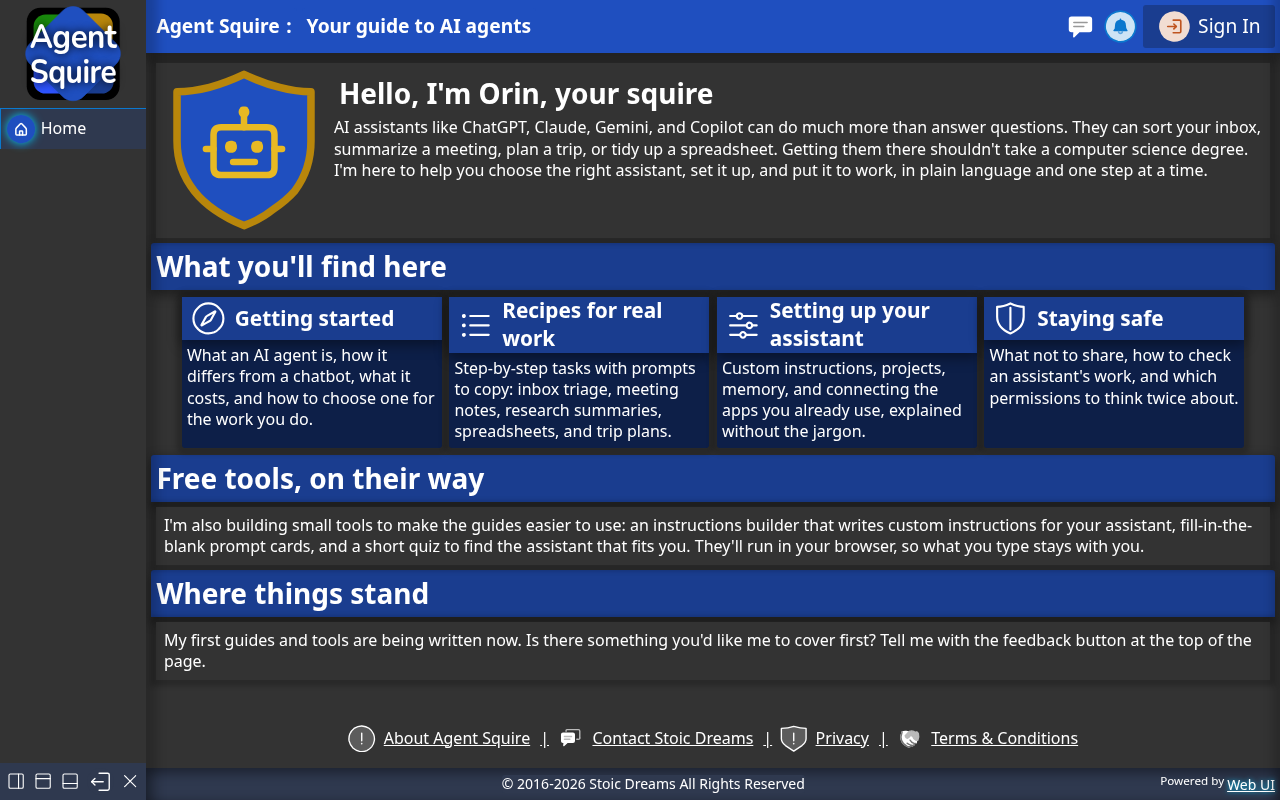
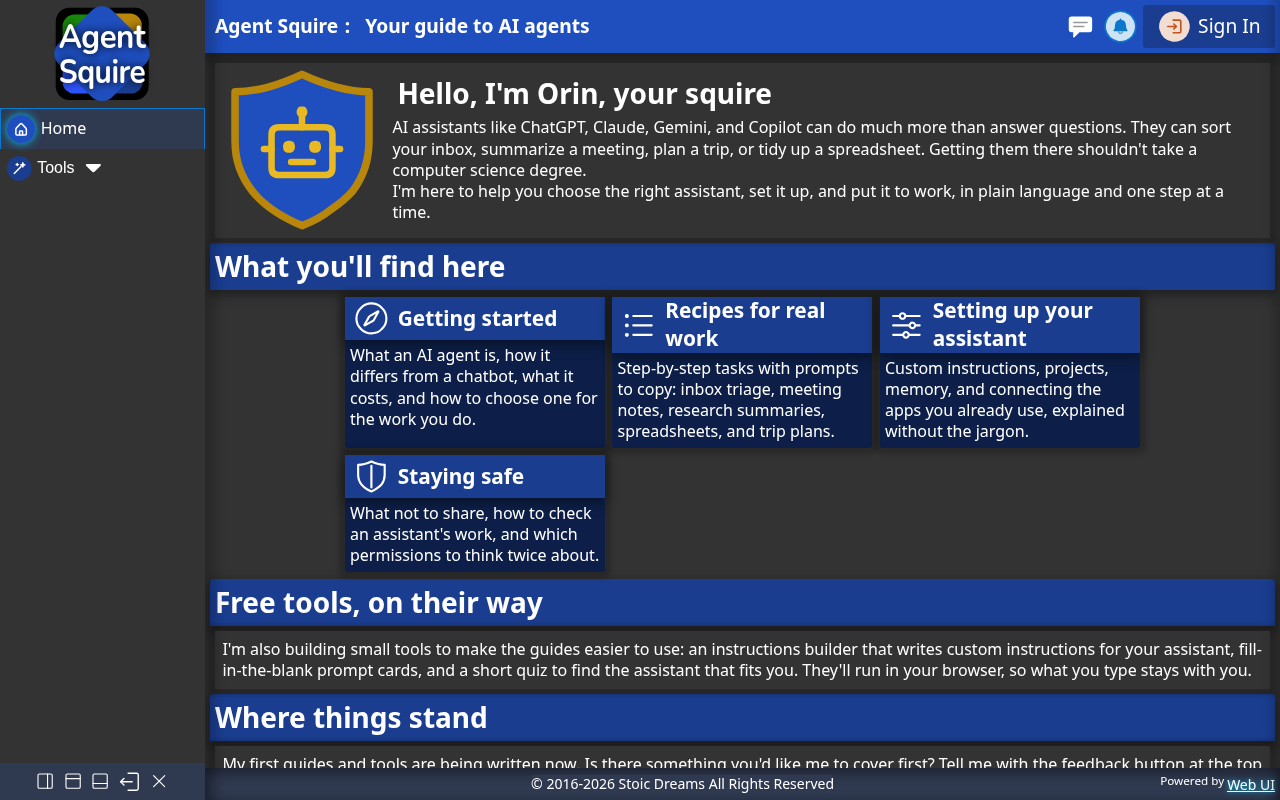
Feature: Instructions Builder, the first Agent Squire tool, with its guide and a Tools menu

diff --git a/webapp/wc/instructions-builder.js b/webapp/wc/instructions-builder.js
@@ -1,0 +1,192 @@
+/*!
+ * Agent Squire Instructions Builder
+ * Asks a few plain questions and writes custom instructions to paste into ChatGPT, Claude, Gemini, or Copilot.
+ * Everything happens in the browser. Nothing typed here is sent anywhere.
+ * Authored by Erik Gassler - Stoic Dreams
+ * Copyright © 2026 Stoic Dreams - https://www.stoicdreams.com
+ * Licensed under the MIT license - https://github.com/StoicDreams/MyFiCDN/blob/main/LICENSE
+ */
+"use strict"
+{
+    const USES = [
+        ['email', 'writing and replying to email'],
+        ['writing', 'drafting and editing documents'],
+        ['research', 'researching and summarizing'],
+        ['planning', 'planning projects, trips, and events'],
+        ['numbers', 'spreadsheets and numbers'],
+        ['learning', 'learning new things'],
+        ['everyday', 'everyday questions'],
+    ];
+
+    const TONES = {
+        friendly: 'Be warm and friendly, like a helpful colleague.',
+        professional: 'Keep a professional, polished tone.',
+        direct: 'Be direct and get straight to the point, without filler or flattery.',
+    };
+
+    const LENGTHS = {
+        short: 'Keep answers short. Give the answer first, and only add detail if I ask.',
+        balanced: 'Give enough detail to be useful, but keep answers focused.',
+        thorough: 'Be thorough. Explain your reasoning and include the details.',
+    };
+
+    const HABITS = [
+        ['plain', 'Use plain language, and explain any technical term the first time you use it.'],
+        ['steps', 'When there are steps to follow, give them as a numbered list.'],
+        ['ask', 'If my request is unclear, ask me a question before answering.'],
+        ['unsure', 'If you are not sure about something, say so rather than guessing.'],
+        ['sources', 'When you state facts, tell me where they come from so I can check them.'],
+        ['options', 'When there is a choice to make, give me a few options with their pros and cons.'],
+    ];
+
+    /** Where each assistant keeps its instructions. Menu names change, so this was checked in November 2026. */
+    const WHERE = {
+        chatgpt: 'In ChatGPT, open your profile menu, choose Settings, then Personalization, and paste this into Custom instructions. You may need to turn on customization first.',
+        claude: 'In Claude, open Settings and find the box that asks what personal preferences Claude should consider in responses. Paste this there and save.',
+        gemini: 'In Gemini, open Settings and help, then Personal Intelligence (it may say Personal context), and add this under Instructions for Gemini.',
+        copilot: 'In Microsoft Copilot, open Settings, then Personalization, and paste this into Custom instructions. A work account may have this turned off by your organization.',
+    };
+
+    const clean = value => `${value || ''}`.trim().replace(/\s+/g, ' ');
+    const sentence = text => /[.!?]$/.test(text) ? text : `${text}.`;
+
+    /** Builds the instructions from the answers. */
+    function buildInstructions(answers) {
+        const about = [];
+        const name = clean(answers.name);
+        const role = clean(answers.role);
+        if (name) about.push(`Please call me ${name}.`);
+        if (role) about.push(sentence(`I work as ${role}`));
+        const uses = USES.filter(([key]) => answers.uses?.includes(key)).map(([, text]) => text);
+        if (uses.length === 1) about.push(`I mostly use you for ${uses[0]}.`);
+        if (uses.length > 1) about.push(`I mostly use you for ${uses.slice(0, -1).join(', ')}, and ${uses[uses.length - 1]}.`);
+        const context = clean(answers.context);
+        if (context) about.push(sentence(context));
+
+        const respond = [];
+        if (TONES[answers.tone]) respond.push(TONES[answers.tone]);
+        if (LENGTHS[answers.length]) respond.push(LENGTHS[answers.length]);
+        HABITS.filter(([key]) => answers.habits?.includes(key)).forEach(([, text]) => respond.push(text));
+        const avoid = clean(answers.avoid);
+        if (avoid) respond.push(sentence(`Please avoid ${avoid.replace(/^(please )?avoid /i, '')}`));
+
+        const parts = [];
+        if (about.length) parts.push(`About me:\n${about.map(line => `- ${line}`).join('\n')}`);
+        if (respond.length) parts.push(`How to respond:\n${respond.map(line => `- ${line}`).join('\n')}`);
+        return parts.join('\n\n');
+    }
+
+    webui.define('app-instructions-builder', {
+        preload: 'flex input-text input-message switch code',
+        connected() {
+            this.render();
+        },
+        async render() {
+            const t = this;
+            const wrap = webui.create('webui-flex', { column: true, gap: 'var(--padding)' });
+
+            const name = webui.create('webui-input-text', { label: 'What should it call you?', placeholder: 'Your first name, or leave blank', maxlength: 60 });
+            const role = webui.create('webui-input-text', { label: 'What do you do?', placeholder: 'For example: a teacher, a small business owner, retired', maxlength: 120 });
+
+            const usesBox = t.checkboxes('What do you mostly use it for?', 'uses', USES.map(([key, text]) => [key, text.charAt(0).toUpperCase() + text.slice(1)]));
+            const context = webui.create('webui-input-message', { label: 'Anything else it should know about you?', placeholder: 'For example: I live in Canada, so use metric units and Canadian spelling' });
+
+            const tone = webui.create('webui-switch', { label: 'Tone' });
+            tone.setOptions(JSON.stringify([
+                { value: 'friendly', label: 'Friendly' },
+                { value: 'professional', label: 'Professional' },
+                { value: 'direct', label: 'Direct' },
+            ]));
+            const length = webui.create('webui-switch', { label: 'Answer length' });
+            length.setOptions(JSON.stringify([
+                { value: 'short', label: 'Short' },
+                { value: 'balanced', label: 'Balanced' },
+                { value: 'thorough', label: 'Thorough' },
+            ]));
+            length.setAttribute('value', 'balanced');
+
+            const habitsBox = t.checkboxes('Good habits to ask for', 'habits', HABITS.map(([key, text]) => [key, text]));
+            const avoid = webui.create('webui-input-text', { label: 'Anything it should avoid?', placeholder: 'For example: emojis, long introductions, jargon', maxlength: 200 });
+
+            const assistant = webui.create('webui-switch', { label: 'Your assistant' });
+            assistant.setOptions(JSON.stringify([
+                { value: 'chatgpt', label: 'ChatGPT' },
+                { value: 'claude', label: 'Claude' },
+                { value: 'gemini', label: 'Gemini' },
+                { value: 'copilot', label: 'Copilot' },
+            ]));
+
+            const output = webui.create('webui-code', { language: 'text', label: 'Your custom instructions', class: 'instructions-output' });
+            const count = webui.create('p', { class: 'instructions-count', 'aria-live': 'polite' });
+            const where = webui.create('p', { class: 'instructions-where' });
+
+            const field = (label, control) => {
+                const row = webui.create('webui-flex', { column: true, gap: '0.25rem' });
+                row.append(webui.create('strong', { text: label }), control);
+                return row;
+            };
+
+            wrap.append(
+                webui.create('h3', { text: 'About you' }),
+                name, role, usesBox, context,
+                webui.create('h3', { text: 'How it should answer' }),
+                field('Tone', tone), field('Answer length', length), habitsBox, avoid,
+                webui.create('h3', { text: 'Your instructions' }),
+                field('Your assistant', assistant), where, output, count,
+            );
+            t.replaceChildren(wrap);
+
+            t._fields = { name, role, context, tone, length, avoid, assistant, usesBox, habitsBox };
+            t._output = output;
+            t._count = count;
+            t._where = where;
+
+            await Promise.all(['webui-input-text', 'webui-input-message', 'webui-switch', 'webui-code'].map(tag => customElements.whenDefined(tag)));
+            wrap.addEventListener('input', () => t.update());
+            wrap.addEventListener('change', () => t.update());
+            t.update();
+        },
+        /** A labelled group of checkboxes. Labels are fixed text from this file, never typed text. */
+        checkboxes(legend, name, items) {
+            const set = webui.create('fieldset', { class: 'instructions-choices', 'data-group': name });
+            const list = webui.create('webui-flex', { column: true, gap: '0.25rem' });
+            items.forEach(([value, text]) => {
+                const label = webui.create('label');
+                const box = webui.create('input', { type: 'checkbox', name, value });
+                label.append(box, document.createTextNode(` ${text}`));
+                list.append(label);
+            });
+            set.append(webui.create('legend', { text: legend }), list);
+            return set;
+        },
+        /** The current answers, read from the form. */
+        answers() {
+            const f = this._fields;
+            const checked = set => [...set.querySelectorAll('input:checked')].map(box => box.value);
+            return {
+                name: f.name.value,
+                role: f.role.value,
+                uses: checked(f.usesBox),
+                context: f.context.value,
+                tone: f.tone.value || 'friendly',
+                length: f.length.value || 'balanced',
+                habits: checked(f.habitsBox),
+                avoid: f.avoid.value,
+            };
+        },
+        update() {
+            const t = this;
+            if (!t._fields) return;
+            const text = buildInstructions(t.answers());
+            if (text !== t._last) {
+                t._last = text;
+                t._output.setValue(text);
+                t._count.innerText = text
+                    ? `${text.length.toLocaleString()} characters. If your assistant says this is too long, remove the lines that matter least to you.`
+                    : 'Answer any of the questions above, and your instructions appear here.';
+            }
+            const where = WHERE[t._fields.assistant.value] || WHERE.chatgpt;
+            if (t._where.innerText !== where) t._where.innerText = where;
+        },
+    });
+}

diff --git a/webapp/wc/instructions-builder.min.js b/webapp/wc/instructions-builder.min.js
@@ -1,0 +1,14 @@
+"use strict";/*!
+ * Agent Squire Instructions Builder
+ * Asks a few plain questions and writes custom instructions to paste into ChatGPT, Claude, Gemini, or Copilot.
+ * Everything happens in the browser. Nothing typed here is sent anywhere.
+ * Authored by Erik Gassler - Stoic Dreams
+ * Copyright © 2026 Stoic Dreams - https://www.stoicdreams.com
+ * Licensed under the MIT license - https://github.com/StoicDreams/MyFiCDN/blob/main/LICENSE
+ */{let $=function(e){const t=[],a=d(e.name),i=d(e.role);a&&t.push(`Please call me ${a}.`),i&&t.push(p(`I work as ${i}`));const s=m.filter(([n])=>e.uses?.includes(n)).map(([,n])=>n);s.length===1&&t.push(`I mostly use you for ${s[0]}.`),s.length>1&&t.push(`I mostly use you for ${s.slice(0,-1).join(", ")}, and ${s[s.length-1]}.`);const u=d(e.context);u&&t.push(p(u));const o=[];f[e.tone]&&o.push(f[e.tone]),w[e.length]&&o.push(w[e.length]),y.filter(([n])=>e.habits?.includes(n)).forEach(([,n])=>o.push(n));const l=d(e.avoid);l&&o.push(p(`Please avoid ${l.replace(/^(please )?avoid /i,"")}`));const r=[];return t.length&&r.push(`About me:
+${t.map(n=>`- ${n}`).join(`
+`)}`),o.length&&r.push(`How to respond:
+${o.map(n=>`- ${n}`).join(`
+`)}`),r.join(`
+
+`)};const m=[["email","writing and replying to email"],["writing","drafting and editing documents"],["research","researching and summarizing"],["planning","planning projects, trips, and events"],["numbers","spreadsheets and numbers"],["learning","learning new things"],["everyday","everyday questions"]],f={friendly:"Be warm and friendly, like a helpful colleague.",professional:"Keep a professional, polished tone.",direct:"Be direct and get straight to the point, without filler or flattery."},w={short:"Keep answers short. Give the answer first, and only add detail if I ask.",balanced:"Give enough detail to be useful, but keep answers focused.",thorough:"Be thorough. Explain your reasoning and include the details."},y=[["plain","Use plain language, and explain any technical term the first time you use it."],["steps","When there are steps to follow, give them as a numbered list."],["ask","If my request is unclear, ask me a question before answering."],["unsure","If you are not sure about something, say so rather than guessing."],["sources","When you state facts, tell me where they come from so I can check them."],["options","When there is a choice to make, give me a few options with their pros and cons."]],v={chatgpt:"In ChatGPT, open your profile menu, choose Settings, then Personalization, and paste this into Custom instructions. You may need to turn on customization first.",claude:"In Claude, open Settings and find the box that asks what personal preferences Claude should consider in responses. Paste this there and save.",gemini:"In Gemini, open Settings and help, then Personal Intelligence (it may say Personal context), and add this under Instructions for Gemini.",copilot:"In Microsoft Copilot, open Settings, then Personalization, and paste this into Custom instructions. A work account may have this turned off by your organization."},d=e=>`${e||""}`.trim().replace(/\s+/g," "),p=e=>/[.!?]$/.test(e)?e:`${e}.`;webui.define("app-instructions-builder",{preload:"flex input-text input-message switch code",connected(){this.render()},async render(){const e=this,t=webui.create("webui-flex",{column:!0,gap:"var(--padding)"}),a=webui.create("webui-input-text",{label:"What should it call you?",placeholder:"Your first name, or leave blank",maxlength:60}),i=webui.create("webui-input-text",{label:"What do you do?",placeholder:"For example: a teacher, a small business owner, retired",maxlength:120}),s=e.checkboxes("What do you mostly use it for?","uses",m.map(([c,h])=>[c,h.charAt(0).toUpperCase()+h.slice(1)])),u=webui.create("webui-input-message",{label:"Anything else it should know about you?",placeholder:"For example: I live in Canada, so use metric units and Canadian spelling"}),o=webui.create("webui-switch",{label:"Tone"});o.setOptions(JSON.stringify([{value:"friendly",label:"Friendly"},{value:"professional",label:"Professional"},{value:"direct",label:"Direct"}]));const l=webui.create("webui-switch",{label:"Answer length"});l.setOptions(JSON.stringify([{value:"short",label:"Short"},{value:"balanced",label:"Balanced"},{value:"thorough",label:"Thorough"}])),l.setAttribute("value","balanced");const r=e.checkboxes("Good habits to ask for","habits",y.map(([c,h])=>[c,h])),n=webui.create("webui-input-text",{label:"Anything it should avoid?",placeholder:"For example: emojis, long introductions, jargon",maxlength:200}),b=webui.create("webui-switch",{label:"Your assistant"});b.setOptions(JSON.stringify([{value:"chatgpt",label:"ChatGPT"},{value:"claude",label:"Claude"},{value:"gemini",label:"Gemini"},{value:"copilot",label:"Copilot"}]));const x=webui.create("webui-code",{language:"text",label:"Your custom instructions",class:"instructions-output"}),k=webui.create("p",{class:"instructions-count","aria-live":"polite"}),I=webui.create("p",{class:"instructions-where"}),g=(c,h)=>{const S=webui.create("webui-flex",{column:!0,gap:"0.25rem"});return S.append(webui.create("strong",{text:c}),h),S};t.append(webui.create("h3",{text:"About you"}),a,i,s,u,webui.create("h3",{text:"How it should answer"}),g("Tone",o),g("Answer length",l),r,n,webui.create("h3",{text:"Your instructions"}),g("Your assistant",b),I,x,k),e.replaceChildren(t),e._fields={name:a,role:i,context:u,tone:o,length:l,avoid:n,assistant:b,usesBox:s,habitsBox:r},e._output=x,e._count=k,e._where=I,await Promise.all(["webui-input-text","webui-input-message","webui-switch","webui-code"].map(c=>customElements.whenDefined(c))),t.addEventListener("input",()=>e.update()),t.addEventListener("change",()=>e.update()),e.update()},checkboxes(e,t,a){const i=webui.create("fieldset",{class:"instructions-choices","data-group":t}),s=webui.create("webui-flex",{column:!0,gap:"0.25rem"});return a.forEach(([u,o])=>{const l=webui.create("label"),r=webui.create("input",{type:"checkbox",name:t,value:u});l.append(r,document.createTextNode(` ${o}`)),s.append(l)}),i.append(webui.create("legend",{text:e}),s),i},answers(){const e=this._fields,t=a=>[...a.querySelectorAll("input:checked")].map(i=>i.value);return{name:e.name.value,role:e.role.value,uses:t(e.usesBox),context:e.context.value,tone:e.tone.value||"friendly",length:e.length.value||"balanced",habits:t(e.habitsBox),avoid:e.avoid.value}},update(){const e=this;if(!e._fields)return;const t=$(e.answers());t!==e._last&&(e._last=t,e._output.setValue(t),e._count.innerText=t?`${t.length.toLocaleString()} characters. If your assistant says this is too long, remove the lines that matter least to you.`:"Answer any of the questions above, and your instructions appear here.");const a=v[e._fields.assistant.value]||v.chatgpt;e._where.innerText!==a&&(e._where.innerText=a)}})}

diff --git a/webapp/root_files/service-worker.min.js b/webapp/root_files/service-worker.min.js
@@ -1,1 +1,1 @@
-self.addEventListener("install",t=>t.waitUntil(onInstall(t))),self.addEventListener("activate",t=>t.waitUntil(onActivate(t))),self.addEventListener("fetch",t=>{const e=new URL(t.request.url);e.protocol==="ipc:"||e.protocol==="tauri:"||e.hostname==="ipc.localhost"||e.hostname==="tauri.localhost"||e.hostname.startsWith("127")||e.hostname==="localhost"||t.request.url.startsWith("http")&&allowCache(t.request)&&t.respondWith(onFetch(t))});const currentVersion="0.1.20",cacheNamePrefix="offline-cache-",cacheName=`${cacheNamePrefix}${currentVersion}`;async function onInstall(t){self.skipWaiting()}async function onActivate(t){const e=await caches.keys();await Promise.all(e.filter(a=>a.startsWith(cacheNamePrefix)&&a!==cacheName).map(a=>caches.delete(a))),await self.clients.claim()}async function onFetch(t){const e=await caches.open(cacheName);let a;try{a=await fetch(applyCacheBusting(t.request))}catch(n){const c=await e.match(t.request);if(c)return c;throw n}return a.ok?(t.waitUntil(e.put(t.request,a.clone()).catch(()=>{})),a):await e.match(t.request)||a}function applyCacheBusting(t){try{const e=new URL(t.url);return e.searchParams.set("_",Date.now()),new Request(e.toString(),t)}catch{return t}}function allowCache(t){return!(t.method!=="GET"||t.mode==="navigate")}
+self.addEventListener("install",t=>t.waitUntil(onInstall(t))),self.addEventListener("activate",t=>t.waitUntil(onActivate(t))),self.addEventListener("fetch",t=>{const e=new URL(t.request.url);e.protocol==="ipc:"||e.protocol==="tauri:"||e.hostname==="ipc.localhost"||e.hostname==="tauri.localhost"||e.hostname.startsWith("127")||e.hostname==="localhost"||t.request.url.startsWith("http")&&allowCache(t.request)&&t.respondWith(onFetch(t))});const currentVersion="0.1.21",cacheNamePrefix="offline-cache-",cacheName=`${cacheNamePrefix}${currentVersion}`;async function onInstall(t){self.skipWaiting()}async function onActivate(t){const e=await caches.keys();await Promise.all(e.filter(a=>a.startsWith(cacheNamePrefix)&&a!==cacheName).map(a=>caches.delete(a))),await self.clients.claim()}async function onFetch(t){const e=await caches.open(cacheName);let a;try{a=await fetch(applyCacheBusting(t.request))}catch(n){const c=await e.match(t.request);if(c)return c;throw n}return a.ok?(t.waitUntil(e.put(t.request,a.clone()).catch(()=>{})),a):await e.match(t.request)||a}function applyCacheBusting(t){try{const e=new URL(t.url);return e.searchParams.set("_",Date.now()),new Request(e.toString(),t)}catch{return t}}function allowCache(t){return!(t.method!=="GET"||t.mode==="navigate")}

diff --git a/webapp/root_files/service-worker.js b/webapp/root_files/service-worker.js
@@ -20,7 +20,7 @@ self.addEventListener('fetch', event => {
     }
     event.respondWith(onFetch(event))
 });
-const currentVersion = '0.1.20';
+const currentVersion = '0.1.21';
 const cacheNamePrefix = 'offline-cache-';
 const cacheName = `${cacheNamePrefix}${currentVersion}`;
 async function onInstall(event) {

diff --git a/webapp/d/instructions-builder.md b/webapp/d/instructions-builder.md
@@ -1,0 +1,67 @@
+<webui-data data-page-title="Instructions Builder" data-page-subtitle="Custom instructions for your AI assistant"></webui-data>
+
+<webui-quote theme="title">
+Answer a few questions and I'll write custom instructions for you to paste into ChatGPT, Claude, Gemini, or Copilot. Your assistant will then know a little about you and how you like your answers, in every chat.
+</webui-quote>
+
+<webui-page-segment elevation="10">
+<app-instructions-builder></app-instructions-builder>
+</webui-page-segment>
+
+Everything here runs in your browser. Nothing you type is sent anywhere.
+
+## What are custom instructions?
+
+<webui-page-segment elevation="10">
+
+Every time you start a new chat, your assistant knows nothing about you. Custom instructions fix that. They're a short note, saved in your assistant's settings, that it reads before every conversation. Tell it who you are and how you like answers once, and you don't have to repeat yourself.
+
+Each assistant names this a little differently, such as custom instructions, personal preferences, or instructions for Gemini, but they all work the same way.
+
+</webui-page-segment>
+
+## How to use the builder
+
+<webui-page-segment elevation="10">
+
+1. **Answer what you like.** Every question is optional. Even one or two answers make a difference.
+1. **Pick your assistant.** I'll show you where its instructions live.
+1. **Copy and paste.** Use the copy button on your instructions, then paste them into your assistant's settings and save.
+1. **Try it.** Start a new chat and ask something you often ask. If the answer still isn't right, come back, change an answer, and paste again.
+
+</webui-page-segment>
+
+## Tips from your squire
+
+<webui-page-segment elevation="10">
+
+- **Start small.** A few clear lines work better than a long list. You can always add more later.
+- **Be specific.** "I'm a teacher" helps. "I teach fifth grade science" helps more.
+- **Say what bothers you.** If answers are always too long or full of jargon, say so. That's often the biggest improvement.
+- **Leave out private details.** Don't put passwords, account numbers, or anything you wouldn't want stored in your instructions. They're saved with your account.
+- **Check it now and then.** As you use your assistant for new things, update your instructions to match.
+
+</webui-page-segment>
+
+## An example
+
+<webui-page-segment elevation="10">
+
+Here's what someone who runs a small bakery might end up with:
+
+```text:Example instructions
+About me:
+- Please call me Sam.
+- I work as the owner of a small bakery.
+- I mostly use you for writing and replying to email, and planning projects, trips, and events.
+
+How to respond:
+- Be warm and friendly, like a helpful colleague.
+- Keep answers short. Give the answer first, and only add detail if I ask.
+- Use plain language, and explain any technical term the first time you use it.
+- If my request is unclear, ask me a question before answering.
+```
+
+</webui-page-segment>
+
+Where to find each assistant's settings was checked in November 2026. Menu names change often, so if you can't find it, look for Personalization or Instructions in your assistant's settings.

diff --git a/Docs/README.md b/Docs/README.md
@@ -1,6 +1,6 @@
 # Agent Squire
 
-[Version: 0.1.20](https://github.com/StoicDreams/AgentSquire)
+[Version: 0.1.21](https://github.com/StoicDreams/AgentSquire)
 
 [WebUI](https://github.com/StoicDreams/WebUI)
 
